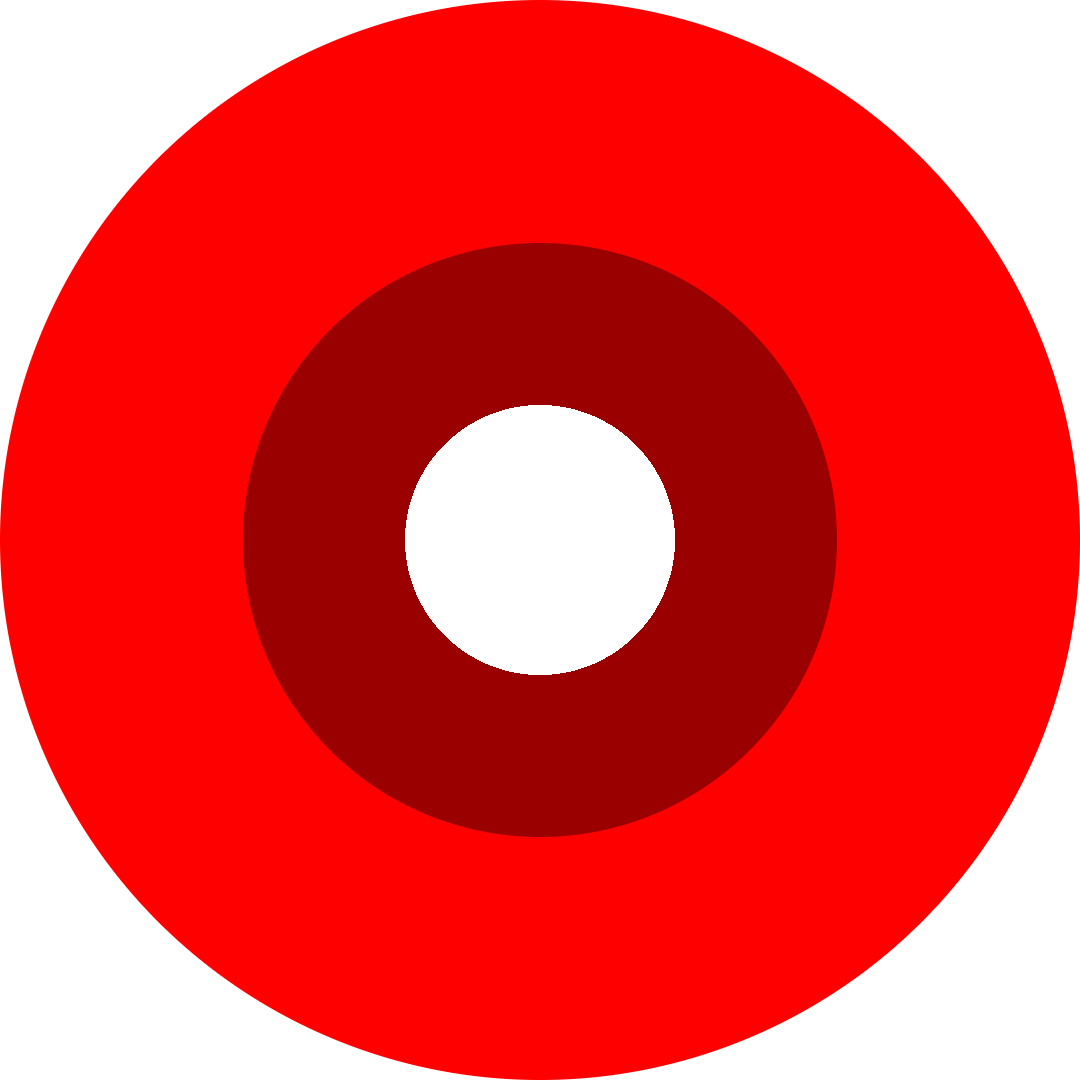
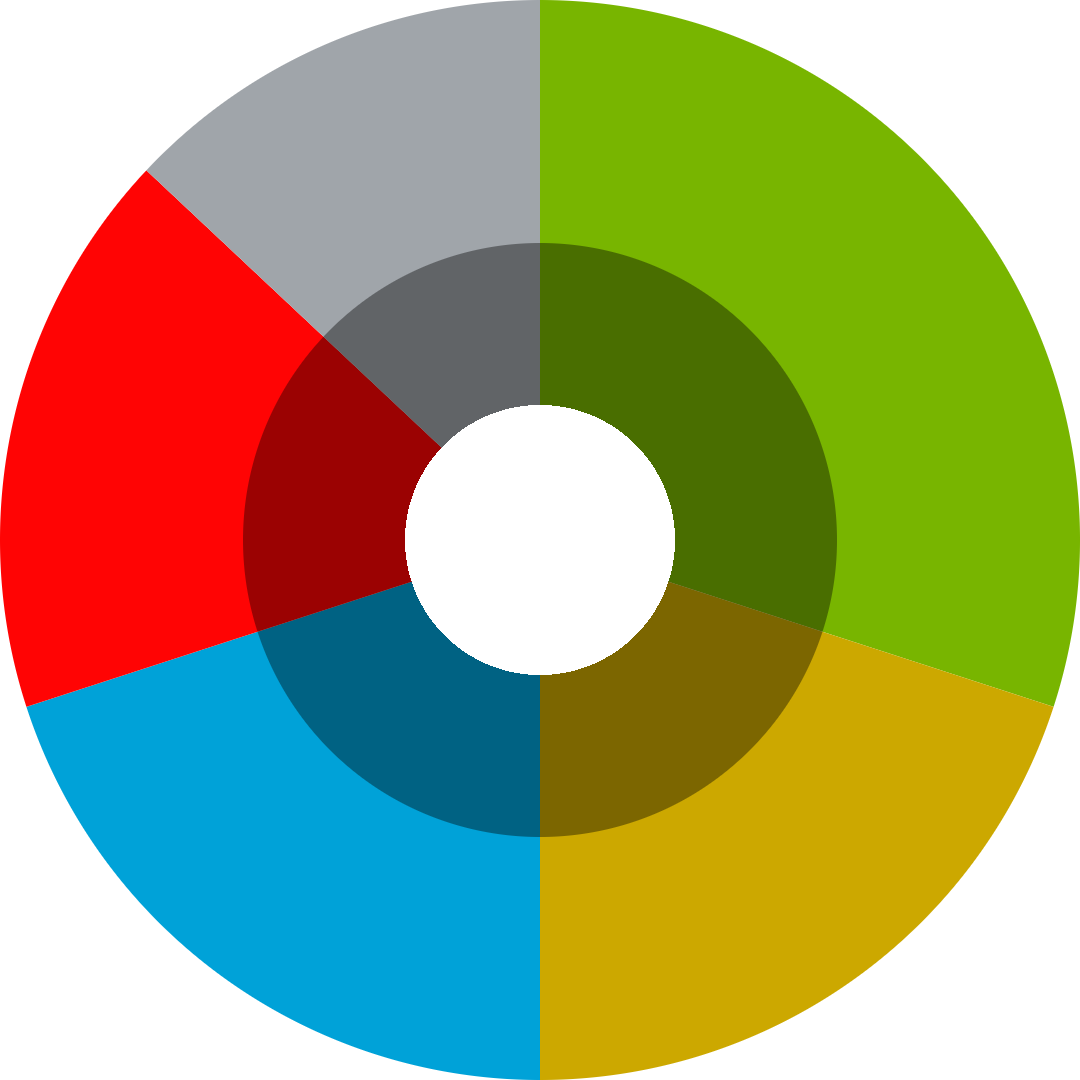
Reflect slices in the chart
Also update tests

diff --git a/piechart/src/androidTest/kotlin/ir/mahozad/android/compose/ScreenshotTestCompose.kt b/piechart/src/androidTest/kotlin/ir/mahozad/android/compose/ScreenshotTestCompose.kt
@@ -1,5 +1,6 @@
 package ir.mahozad.android.compose
 
+import androidx.compose.runtime.mutableStateOf
 import androidx.compose.ui.graphics.Color
 import androidx.compose.ui.graphics.asAndroidBitmap
 import androidx.compose.ui.test.captureToImage
@@ -11,8 +12,6 @@ import org.assertj.core.api.Assertions.assertThat
 import org.junit.Rule
 import org.junit.Test
 import org.junit.jupiter.api.Disabled
-import org.junit.jupiter.api.TestInstance
-import org.junit.jupiter.api.TestInstance.Lifecycle.PER_CLASS
 import org.junit.jupiter.api.condition.DisabledIfEnvironmentVariable
 import org.junit.jupiter.api.condition.DisabledOnOs
 
@@ -75,7 +74,6 @@ import org.junit.jupiter.api.condition.DisabledOnOs
  */
 @Suppress("UsePropertyAccessSyntax")
 @DisabledIfBuildConfigValue(named = "CI", matches = "true")
-@TestInstance(PER_CLASS)
 class ScreenshotTestCompose {
 
     @get:Rule val composeTestRule = createComposeRule()
@@ -86,7 +84,15 @@ class ScreenshotTestCompose {
     @Test fun chartShouldBeDisplayed() {
         val screenshotName = "screenshot-1"
         composeTestRule.setContent {
-            PieChartCompose(pieChartData = listOf(SliceCompose(1f, Color.Red)))
+            PieChartCompose(
+                pieChartData = listOf(
+                    SliceCompose(0.3f, Color(120, 181, 0)/*, Color(149, 224, 0)*/),
+                    SliceCompose(0.2f, Color(204, 168, 0)/*, Color(249, 228, 0)*/),
+                    SliceCompose(0.2f, Color(0, 162, 216)/*, Color(31, 199, 255)*/),
+                    SliceCompose(0.17f, Color(255, 4, 4)/*, Color(255, 72, 86)*/),
+                    SliceCompose(0.13f, Color(160, 165, 170)/*, Color(175, 180, 185)*/)
+                )
+            )
         }
         val node = composeTestRule.onRoot()
         val screenshot = node.captureToImage().asAndroidBitmap()
@@ -102,11 +108,43 @@ class ScreenshotTestCompose {
         }
     }
 
-    @Test fun changeHoleRatio() {
+    @Test fun changeSlices() {
         val screenshotName = "screenshot-2"
+        val slices = mutableStateOf(listOf(
+            SliceCompose(0.3f, Color(120, 181, 0)/*, Color(149, 224, 0)*/),
+            SliceCompose(0.2f, Color(204, 168, 0)/*, Color(249, 228, 0)*/),
+            SliceCompose(0.2f, Color(0, 162, 216)/*, Color(31, 199, 255)*/),
+            SliceCompose(0.17f, Color(255, 4, 4)/*, Color(255, 72, 86)*/),
+            SliceCompose(0.13f, Color(160, 165, 170)/*, Color(175, 180, 185)*/)
+        ))
+        composeTestRule.setContent { PieChartCompose(pieChartData = slices.value) }
+        slices.value = listOf(SliceCompose(1f, Color.Green))
+
+        val node = composeTestRule.onRoot()
+        val screenshot = node.captureToImage().asAndroidBitmap()
+
+        if (shouldSave) {
+            saveScreenshot(screenshot, screenshotName)
+        }
+        if (shouldAssert) {
+            val reference = loadReferenceScreenshot(screenshotName)
+            assertThat(screenshot.sameAs(reference))
+                .withFailMessage { "Screenshots are not the same: $screenshotName.png" }
+                .isTrue()
+        }
+    }
+
+    @Test fun changeHoleRatio() {
+        val screenshotName = "screenshot-3"
         composeTestRule.setContent {
             PieChartCompose(
-                pieChartData = listOf(SliceCompose(1f, Color.Red)),
+                pieChartData = listOf(
+                    SliceCompose(0.3f, Color(120, 181, 0)/*, Color(149, 224, 0)*/),
+                    SliceCompose(0.2f, Color(204, 168, 0)/*, Color(249, 228, 0)*/),
+                    SliceCompose(0.2f, Color(0, 162, 216)/*, Color(31, 199, 255)*/),
+                    SliceCompose(0.17f, Color(255, 4, 4)/*, Color(255, 72, 86)*/),
+                    SliceCompose(0.13f, Color(160, 165, 170)/*, Color(175, 180, 185)*/)
+                ),
                 holeRatio = 0.11f
             )
         }
@@ -125,10 +163,16 @@ class ScreenshotTestCompose {
     }
 
     @Test fun changeOverlayRatio() {
-        val screenshotName = "screenshot-3"
+        val screenshotName = "screenshot-4"
         composeTestRule.setContent {
             PieChartCompose(
-                pieChartData = listOf(SliceCompose(1f, Color.Red)),
+                pieChartData = listOf(
+                    SliceCompose(0.3f, Color(120, 181, 0)/*, Color(149, 224, 0)*/),
+                    SliceCompose(0.2f, Color(204, 168, 0)/*, Color(249, 228, 0)*/),
+                    SliceCompose(0.2f, Color(0, 162, 216)/*, Color(31, 199, 255)*/),
+                    SliceCompose(0.17f, Color(255, 4, 4)/*, Color(255, 72, 86)*/),
+                    SliceCompose(0.13f, Color(160, 165, 170)/*, Color(175, 180, 185)*/)
+                ),
                 overlayRatio = 0.37f
             )
         }

diff --git a/piechart/src/main/kotlin/ir/mahozad/android/compose/PieChartCompose.kt b/piechart/src/main/kotlin/ir/mahozad/android/compose/PieChartCompose.kt
@@ -1,13 +1,10 @@
 package ir.mahozad.android.compose
 
-import androidx.compose.animation.core.Animatable
 import androidx.compose.animation.core.AnimationSpec
 import androidx.compose.animation.core.TweenSpec
 import androidx.compose.foundation.Canvas
 import androidx.compose.foundation.layout.aspectRatio
 import androidx.compose.runtime.Composable
-import androidx.compose.runtime.LaunchedEffect
-import androidx.compose.runtime.remember
 import androidx.compose.ui.Modifier
 import androidx.compose.ui.geometry.Rect
 import androidx.compose.ui.graphics.ClipOp
@@ -34,17 +31,17 @@ fun PieChartCompose(
     animation: AnimationSpec<Float> = TweenSpec(durationMillis = 500),
     // sliceDrawer: SliceDrawer = SimpleSliceDrawer()
 ) {
-    val transitionProgress = remember(pieChartData) { Animatable(initialValue = 0f) }
+    /*val transitionProgress = remember(pieChartData) { Animatable(initialValue = 0f) }
 
     // When slices value changes we want to re-animated the chart.
     LaunchedEffect(pieChartData) {
         transitionProgress.animateTo(1f, animationSpec = animation)
-    }
+    }*/
 
     Pie(
         slices = pieChartData,
         modifier = modifier.aspectRatio(1f),
-        progress = transitionProgress.value,
+        1f,/*progress = transitionProgress.value,*/
         holeRatio,
         overlayRatio
         // sliceDrawer = sliceDrawer
@@ -57,14 +54,21 @@ private fun Pie(
     modifier: Modifier,
     progress: Float,
     holeRatio: Float,
-    overlayRatio: Float
+    overlayRatio: Float,
     // sliceDrawer: SliceDrawer
 ) {
+    val startAngle = -90
+    val fractions = slices.map(SliceCompose::fraction)
+    val startAngles = calculateStartAngles(startAngle, fractions)
+
     Canvas(modifier = modifier) {
         val pieRadius = calculatePieRadius(size)
         val hole = makeHole(pieRadius, holeRatio)
         clipPath(hole, ClipOp.Difference) {
-            drawArc(Color.Red, 0f, 360f, true)
+            for ((i, angle) in startAngles.withIndex()) {
+                val sweepAngle = slices[i].fraction * 360
+                drawArc(slices[i].color, angle, sweepAngle, true)
+            }
             drawOverlay(pieRadius, overlayRatio, Color(0, 0, 0, 100))
         }
 
@@ -100,7 +104,13 @@ private fun DrawScope.drawOverlay(pieRadius: Float, overlayRatio: Float, color: 
 @Preview
 @Composable fun PieChartPreview() {
     PieChartCompose(
-        pieChartData = listOf(SliceCompose(1f, Color.Black)),
-        Modifier.aspectRatio(1f) /* OR .fillMaxSize() */,
+        pieChartData = listOf(
+            SliceCompose(0.3f, Color(120, 181, 0)),
+            SliceCompose(0.2f, Color(0, 162, 216)),
+            SliceCompose(0.2f, Color(204, 168, 0)),
+            SliceCompose(0.17f, Color(255, 4, 4)),
+            SliceCompose(0.13f, Color(160, 165, 170))
+        ),
+        Modifier.aspectRatio(1f), /* OR .fillMaxSize() */
     )
 }

diff --git a/piechart/src/androidTest/kotlin/ir/mahozad/android/compose/ScreenshotTestView.kt b/piechart/src/androidTest/kotlin/ir/mahozad/android/compose/ScreenshotTestView.kt
@@ -1,5 +1,6 @@
 package ir.mahozad.android.compose
 
+import androidx.compose.ui.graphics.Color
 import androidx.core.view.drawToBitmap
 import androidx.lifecycle.Lifecycle
 import androidx.test.core.app.ActivityScenario
@@ -32,10 +33,10 @@ class ScreenshotTestView {
     }
 
     @Test fun viewShouldBeDisplayedCorrectly() {
-        val screenshotName = "screenshot-view"
+        val screenshotName = "screenshot-view-1"
         scenario.onActivity { activity ->
-            activity.configureChart { chart ->
-                val screenshot = chart.drawToBitmap()
+            activity.configureChart {
+                val screenshot = drawToBitmap()
                 if (shouldSave) {
                     saveScreenshot(screenshot, screenshotName)
                 }
@@ -46,6 +47,29 @@ class ScreenshotTestView {
                         .isTrue()
                 }
             }
+        }
+    }
+
+    @Test fun changeViewProperties() {
+        val screenshotName = "screenshot-view-2"
+        lateinit var chart: PieChartView
+        scenario.onActivity { activity ->
+            activity.configureChart {
+                chart = this
+                slices = listOf(SliceCompose(1f, Color.Red))
+                holeRatio = 0.19f
+            }
+        }
+        Thread.sleep(100) // FIXME: Because the below statement didn't capture the new state
+        val screenshot = chart.drawToBitmap()
+        if (shouldSave) {
+            saveScreenshot(screenshot, screenshotName)
+        }
+        if (shouldAssert) {
+            val reference = loadReferenceScreenshot(screenshotName)
+            assertThat(screenshot.sameAs(reference))
+                .withFailMessage { "Screenshots are not the same: $screenshotName.png" }
+                .isTrue()
         }
     }
 }

diff --git a/piechart/src/main/kotlin/ir/mahozad/android/compose/PieChartView.kt b/piechart/src/main/kotlin/ir/mahozad/android/compose/PieChartView.kt
@@ -4,11 +4,20 @@ import android.content.Context
 import android.util.AttributeSet
 import androidx.compose.runtime.Composable
 import androidx.compose.runtime.mutableStateOf
+import androidx.compose.ui.graphics.Color
 import androidx.compose.ui.platform.AbstractComposeView
 import androidx.core.content.withStyledAttributes
 import ir.mahozad.android.DEFAULT_HOLE_RATIO
 import ir.mahozad.android.DEFAULT_OVERLAY_RATIO
 import ir.mahozad.android.R
+
+val defaultSlices = listOf(
+    SliceCompose(0.3f, Color(120, 181, 0)),
+    SliceCompose(0.2f, Color(0, 162, 216)),
+    SliceCompose(0.2f, Color(204, 168, 0)),
+    SliceCompose(0.17f, Color(255, 4, 4)),
+    SliceCompose(0.13f, Color(160, 165, 170))
+)
 
 /**
  * See [this article](https://proandroiddev.com/jetpack-compose-interop-part-2-using-compose-in-traditional-android-views-and-layouts-with-a3c50fc2eaa5).
@@ -18,6 +27,9 @@ class PieChartView @JvmOverloads constructor(
     attrs: AttributeSet? = null,
     defStyle: Int = 0
 ) : AbstractComposeView(context, attrs, defStyle) {
+
+    private val slicesState = mutableStateOf(defaultSlices)
+    var slices by Property(slicesState)
 
     private val holeRatioState = mutableStateOf(DEFAULT_HOLE_RATIO)
     var holeRatioResource by FractionResource(::holeRatio)
@@ -47,7 +59,7 @@ class PieChartView @JvmOverloads constructor(
 
     @Composable override fun Content() {
         PieChartCompose(
-            pieChartData = emptyList(),
+            pieChartData = slicesState.value,
             /*Modifier
                 .height(Dp(height.toFloat()))
                 .width(Dp(width.toFloat()))

diff --git a/piechart/src/androidTest/kotlin/ir/mahozad/android/compose/SizeUtilComposeTest.kt b/piechart/src/androidTest/kotlin/ir/mahozad/android/compose/SizeUtilComposeTest.kt
@@ -38,4 +38,34 @@ class SizeUtilComposeTest {
             assertThat(radius).isEqualTo(29.5f)
         }
     }
+
+    @Nested inner class StartAngles {
+        @Test fun calculateStartAnglesWhenFractionListIsEmpty() {
+            val startAngle = -90
+            val fractions = listOf<Float>()
+            val startAngles = calculateStartAngles(startAngle, fractions)
+            assertThat(startAngles).isEqualTo(emptyList<Float>())
+        }
+
+        @Test fun calculateStartAnglesWith1SmallFraction() {
+            val startAngle = -90
+            val fractions = listOf(0.08f)
+            val startAngles = calculateStartAngles(startAngle, fractions)
+            assertThat(startAngles).isEqualTo(listOf(270f))
+        }
+
+        @Test fun calculateStartAnglesWith1LargeFraction() {
+            val startAngle = -90
+            val fractions = listOf(0.38f)
+            val startAngles = calculateStartAngles(startAngle, fractions)
+            assertThat(startAngles).isEqualTo(listOf(270f))
+        }
+
+        @Test fun calculateStartAnglesWith2Fractions() {
+            val startAngle = -90
+            val fractions = listOf(0.08f, 0.92f)
+            val startAngles = calculateStartAngles(startAngle, fractions)
+            assertThat(startAngles).isEqualTo(listOf(270f, 298.8f))
+        }
+    }
 }

diff --git a/piechart/src/main/kotlin/ir/mahozad/android/compose/SizeUtilCompose.kt b/piechart/src/main/kotlin/ir/mahozad/android/compose/SizeUtilCompose.kt
@@ -1,7 +1,17 @@
 package ir.mahozad.android.compose
 
 import androidx.compose.ui.geometry.Size
+import ir.mahozad.android.PieChart
+import ir.mahozad.android.calculateEndAngle
+import ir.mahozad.android.normalizeAngle
 
 internal fun calculatePieRadius(size: Size): Float {
     return size.minDimension / 2f
+}
+
+internal fun calculateStartAngles(startAngle: Int, fractions: List<Float>): List<Float> {
+    val firstAngle = normalizeAngle(startAngle.toFloat())
+    return fractions.scan(firstAngle) { angle, fraction ->
+        calculateEndAngle(angle, fraction, PieChart.DrawDirection.CLOCKWISE)
+    }.dropLast(1)
 }

diff --git a/piechart/src/androidTest/kotlin/ir/mahozad/android/compose/ScreenshotComposeViewTestActivity.kt b/piechart/src/androidTest/kotlin/ir/mahozad/android/compose/ScreenshotComposeViewTestActivity.kt
@@ -13,5 +13,5 @@ class ScreenshotComposeViewTestActivity : AppCompatActivity() {
         chart = findViewById(ir.mahozad.android.test.R.id.screenshotComposeViewTestPieChart)
     }
 
-    fun configureChart(config: (chart: PieChartView) -> Unit) = config(chart)
+    fun configureChart(config: PieChartView.() -> Unit) = chart.config()
 }
